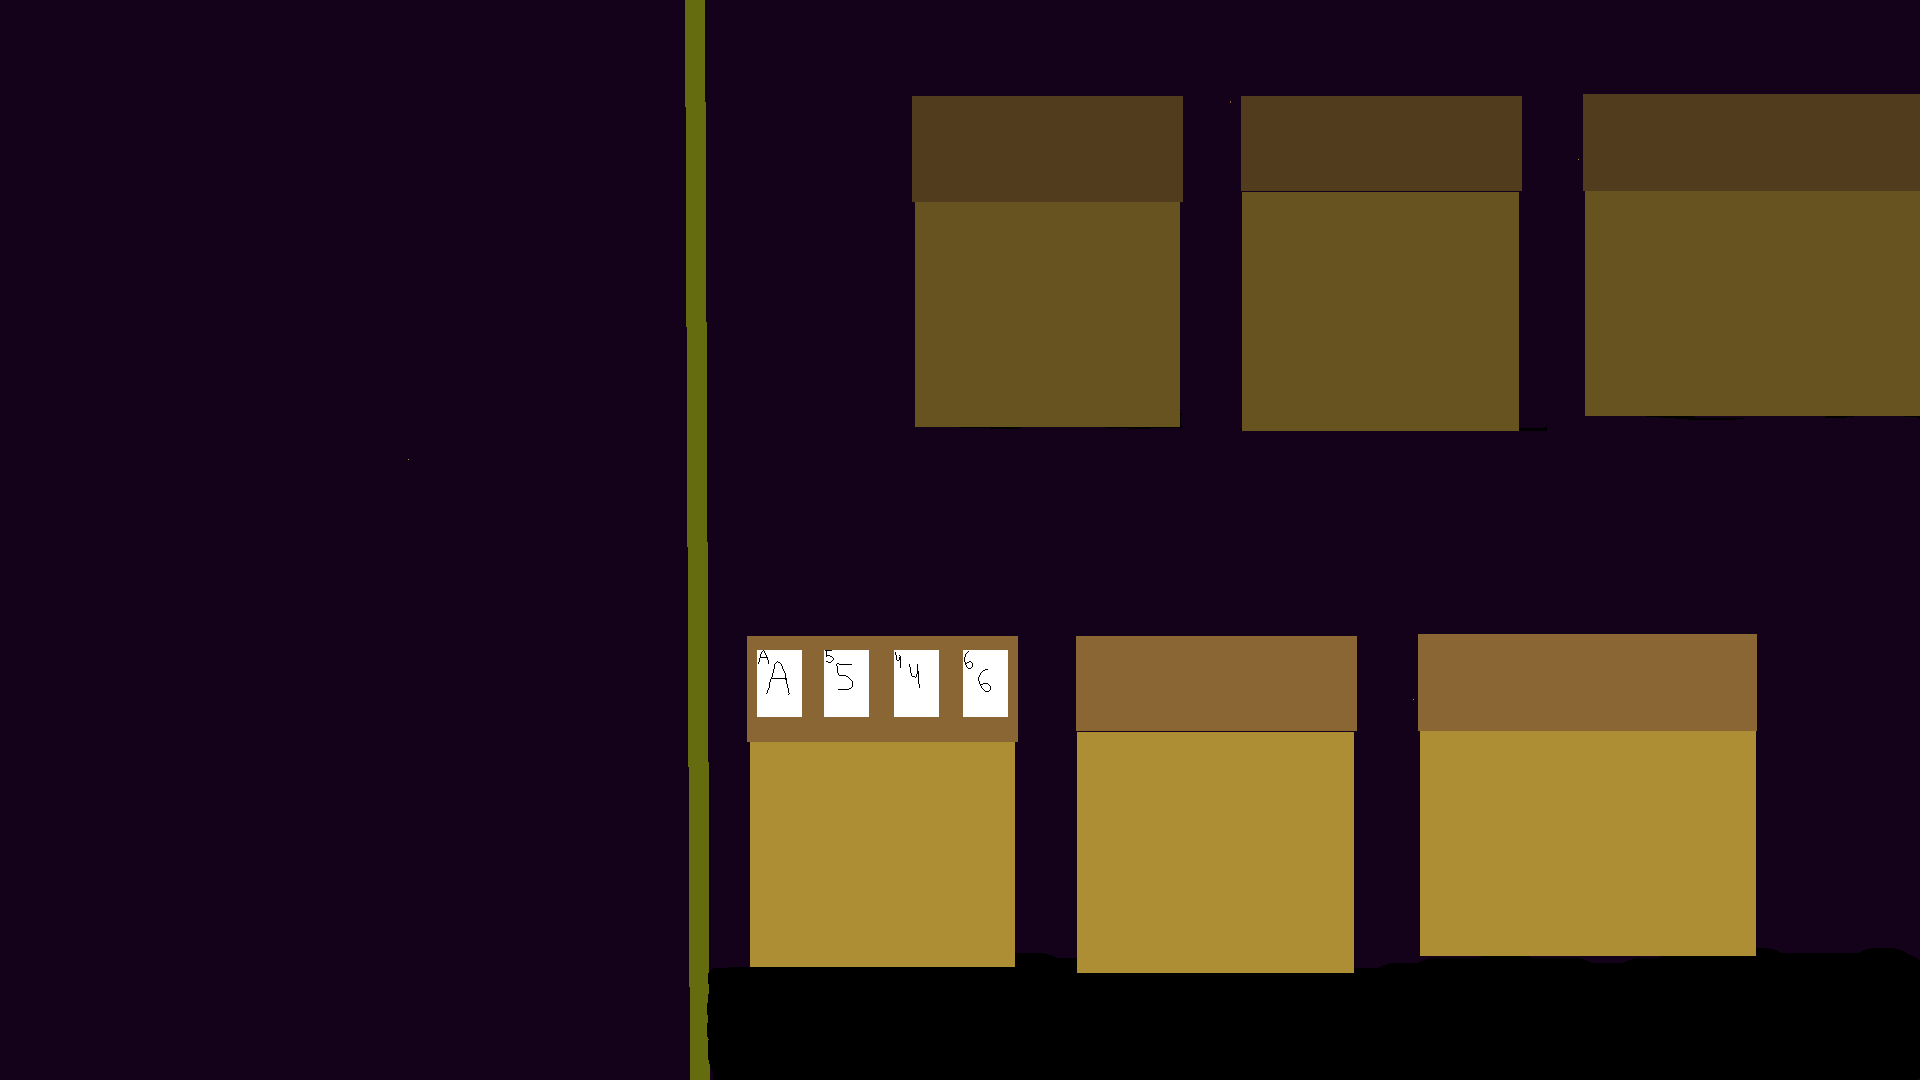
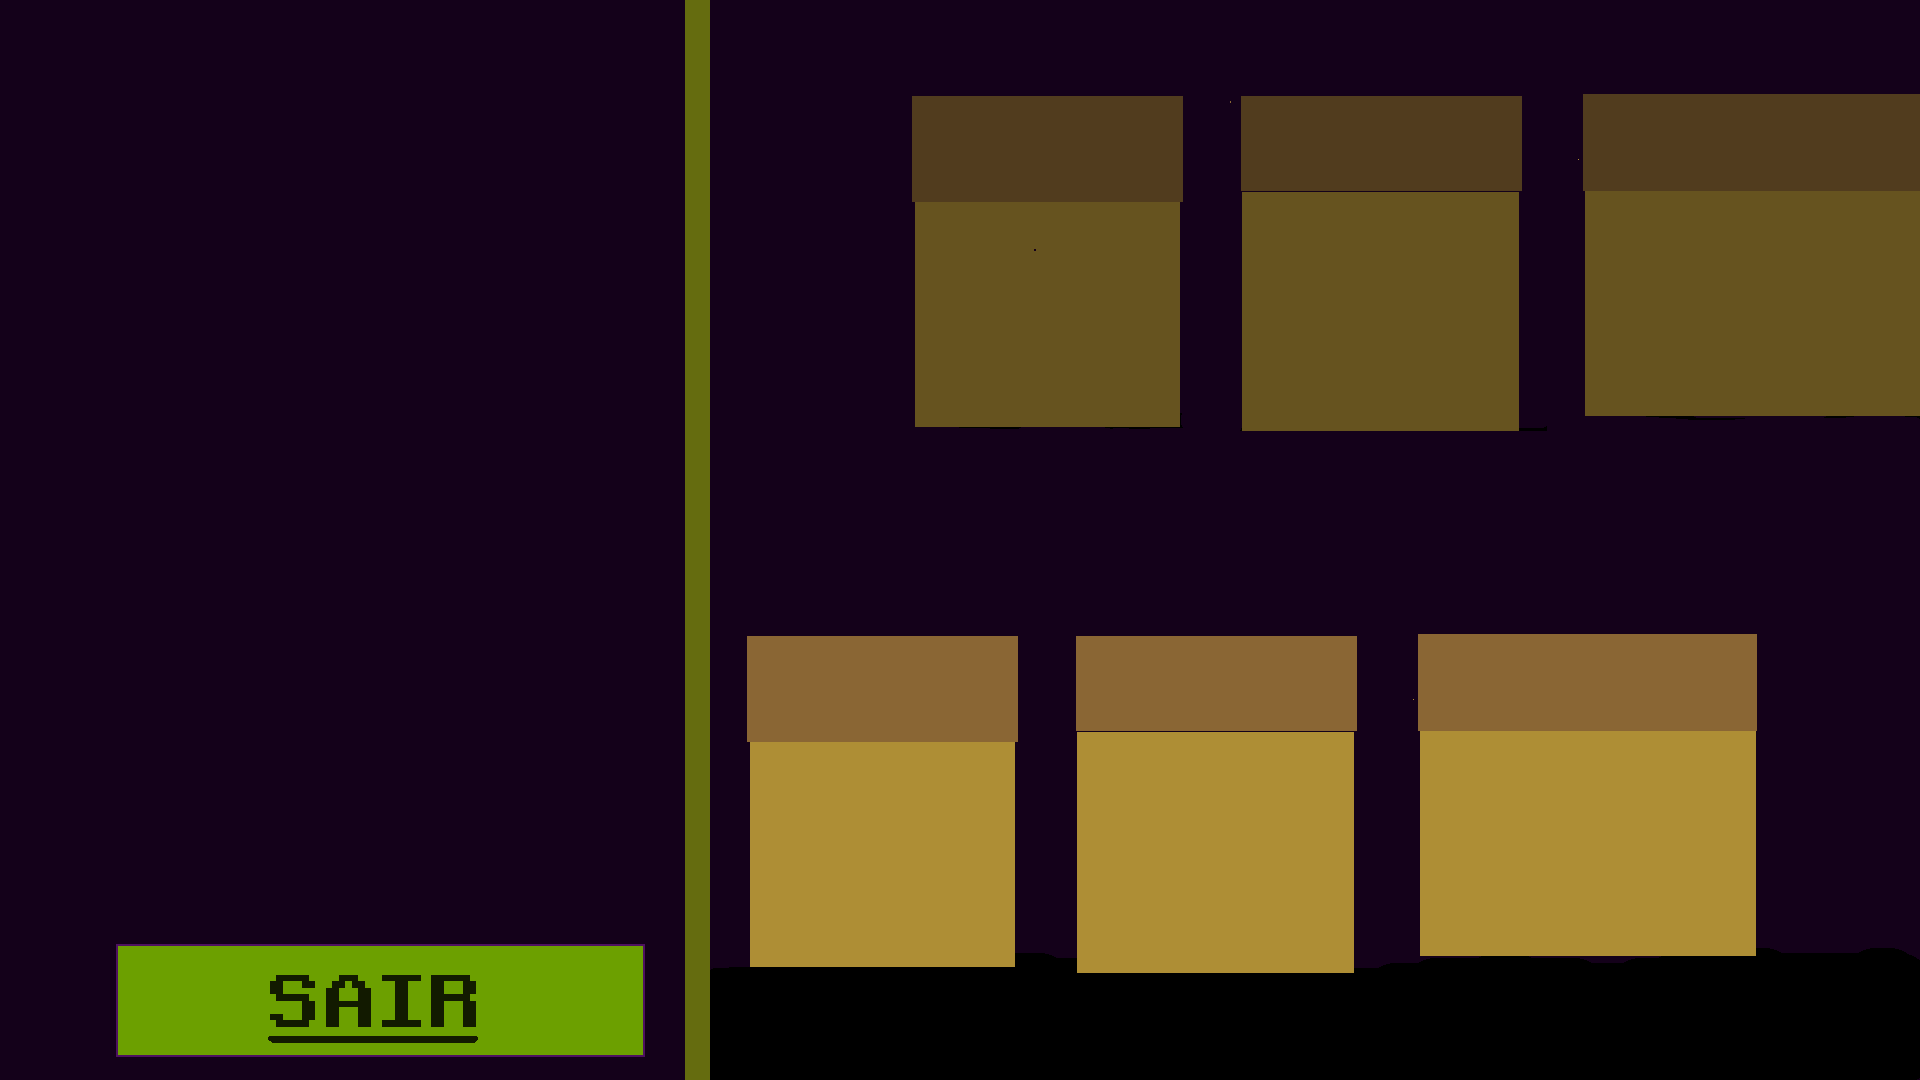
Loja com botão de sair funcional

Changed region(s): [[0.0625, 0.8556, 0.375, 1.0], [0.375, 0.5806, 0.5312, 0.6722]]

diff --git a/loja.py b/loja.py
@@ -25,24 +25,24 @@ class Loja():
         
         self.player = player
         self.tempo = 0  # Para animação
-        
-        self.font_titulo = font.SysFont("Arial", 30, bold=True)
-        self.font_desc = font.SysFont("Arial", 20)
-        self.font_preco = font.SysFont("Arial", 30, bold=True)
-        self.font_chata = font.SysFont("Arial", 20, bold=True)
+
+        self.font_titulo = font.SysFont("assets/Fontes/Philosopher-BoldItalic.ttf", 30, bold=True)
+        self.font_desc = font.SysFont("assets/Fontes/Philosopher-Italic.ttf", 20)
+        self.font_preco = font.SysFont("assets/Fontes/Philosopher-Italic.ttf", 30, bold=True)
+        self.font_chata = font.SysFont("assets/Fontes/Philosopher-Italic.ttf", 20, bold=True)
         
         self.estados_hover = [Vector2(1.0, 0.0) for _ in self.itens_sorteados]
         self.descricao_visivel = [False] * 3
         
         self.botoes = []
-        self.item_width, self.item_height = 300, 400
+        self.item_width, self.item_height = 260, 270
         
     
         # Carregar imagens de cartas por raridade
         self.carta_imgs = {
-            "comum": transform.scale(image.load("assets/itens/carta_comum_loja.png").convert_alpha(), (self.item_width, self.item_height)),
-            "rara": transform.scale(image.load("assets/itens/carta_rara_loja.png").convert_alpha(), (self.item_width, self.item_height)),
-            "lendaria": transform.scale(image.load("assets/itens/carta_lendaria_loja.png").convert_alpha(), (self.item_width, self.item_height))
+            "comum": transform.scale(image.load("assets/itens/carta_comum_loja.png").convert_alpha(), (self.item_width + 40, self.item_height + 130)),
+            "rara": transform.scale(image.load("assets/itens/carta_rara_loja.png").convert_alpha(), (self.item_width + 40, self.item_height + 130)),
+            "lendaria": transform.scale(image.load("assets/itens/carta_lendaria_loja.png").convert_alpha(), (self.item_width + 40, self.item_height + 130))
         }
             
         for i in range(3):
@@ -58,7 +58,10 @@ class Loja():
                 )
                 self.botoes.append(botao)
 
+
         self.comprado = [False]*3
+
+    
 
     def desenhar_loja(self, tela):
         tela.fill((0, 0, 0))
@@ -74,7 +77,7 @@ class Loja():
             #animação foda
             #flutuacao = math.sin(self.tempo + pos * 2) * 10
             base_x = 25
-            base_y = 75 + pos * 320 
+            base_y = 120 + pos * 260
 
             item_rect = Rect(base_x, base_y, self.item_width, self.item_height)
             is_hovered = item_rect.collidepoint(mouse_pos)
@@ -93,7 +96,7 @@ class Loja():
             
             if is_hovered == True:
                 # Desenhar imagem da carta de fundo (DEPOIS FAZER NO BOLSO DELA)
-                carta_base = transform.scale(self.carta_imgs[item.raridade], (width, height))
+                carta_base = transform.scale(self.carta_imgs[item.raridade], (width + 40, height + 130))
                 tela.blit(carta_base, (pos_x + 1200, 525))
 
                 item_img = transform.scale(item.sprite, (100, 100))
@@ -126,12 +129,12 @@ class Loja():
 
             #carta comprada
             if self.comprado[pos]:
-                    carta_tchau = Surface((600, 300), SRCALPHA)
+                    carta_tchau = Surface((350, 180), SRCALPHA)
                     carta_tchau.fill((151, 0, 0, 90))  # Preto com transparência
-                    tela.blit(carta_tchau, (pos_x, pos_y))
+                    tela.blit(carta_tchau, (pos_x, pos_y + 44))
 
     
-        for botao in self.botoes:
+        for botao in self.botoes: # para todos os botões (para aparecerem na tela)
             botao.changeColor(mouse_pos)
             botao.update(tela)
 
@@ -157,10 +160,16 @@ class Loja():
       
 
     def checar_compra(self, mouse_pos, tela):
+
+        if  115 <= mouse_pos[0] <= 644  and   942 <= mouse_pos[1] <= 1056:
+            return "sair"
+        
         for i, botao in enumerate(self.botoes):
+
             if botao.checkForInput(mouse_pos):
                 item = self.itens_sorteados[i]
                 preco = self.precos[item.raridade]
+            
 
                 if self.player.almas >= preco and not self.comprado[i]:
                     self.player.almas -= preco

diff --git a/main.py b/main.py
@@ -22,6 +22,7 @@ init()
 
 gerenciamento.modo = 'jogo'
 
+
 clock = time.Clock()
 SCREEN = display.set_mode((1920, 1080), vsync=1, flags=HWSURFACE | DOUBLEBUF)  # mudei para funcionar em hardware fudido
 fps_font = font.SysFont("Arial", 24)
@@ -54,8 +55,10 @@ while i == 1:
     # i+=1
     keys = key.get_pressed()
     mouse_pos = mouse.get_pos()
-    dt = clock.tick(60)
+    clock.tick(60)
+    dt = clock.get_time()
     current_time = time.get_ticks()
+
     for ev in event.get():
         if ev.type == QUIT:
             quit()
@@ -75,7 +78,7 @@ while i == 1:
             quit()
             sys.exit()
 
-        if gerenciamento.modo == "jogo":
+        if gerenciamento.modo == "jogo":  
             if esperar_soltar_clique:
                 if not mouse.get_pressed()[0]:
                     esperar_soltar_clique = False
@@ -89,7 +92,8 @@ while i == 1:
                                 jogo_pausado = False
                                 bau = False
                         elif loja:  # Adicione esta condição para a loja
-                            sala_atual.loja.checar_compra(mouse.get_pos(), SCREEN)
+                            if sala_atual.loja.checar_compra(mouse.get_pos(), SCREEN) == "sair":
+                                 loja = not loja
                         else:
                             player.ataque_espadaPrincipal(sala_atual.inimigos, mouse_pos, dt)
                     if ev.button == 3:
@@ -111,6 +115,7 @@ while i == 1:
                     if ev.key == K_TAB:
                         minimapa.toggle()
 
+
                     if ev.key == K_PERIOD:
                         item_id = int(input("Digite o ID do item para debug: "))
                         encontrado = False
@@ -124,6 +129,7 @@ while i == 1:
                                 encontrado = True
                                 break
 
+                
     if gerenciamento.modo == 'jogo':
         SCREEN.blit(imagem_cursor, mouse_pos)
         hud.desenhaFundo(SCREEN)
